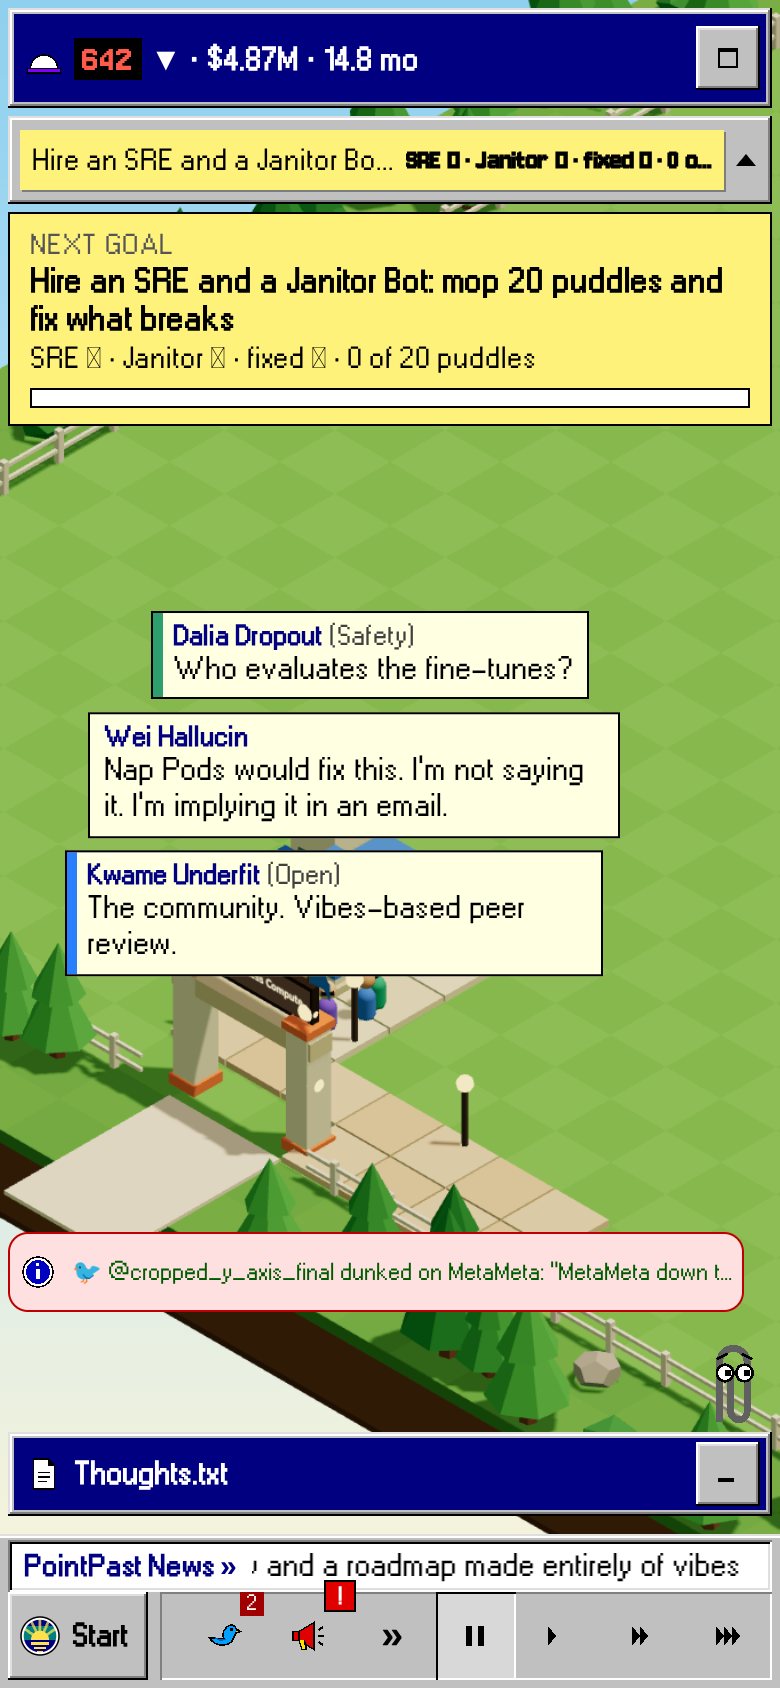
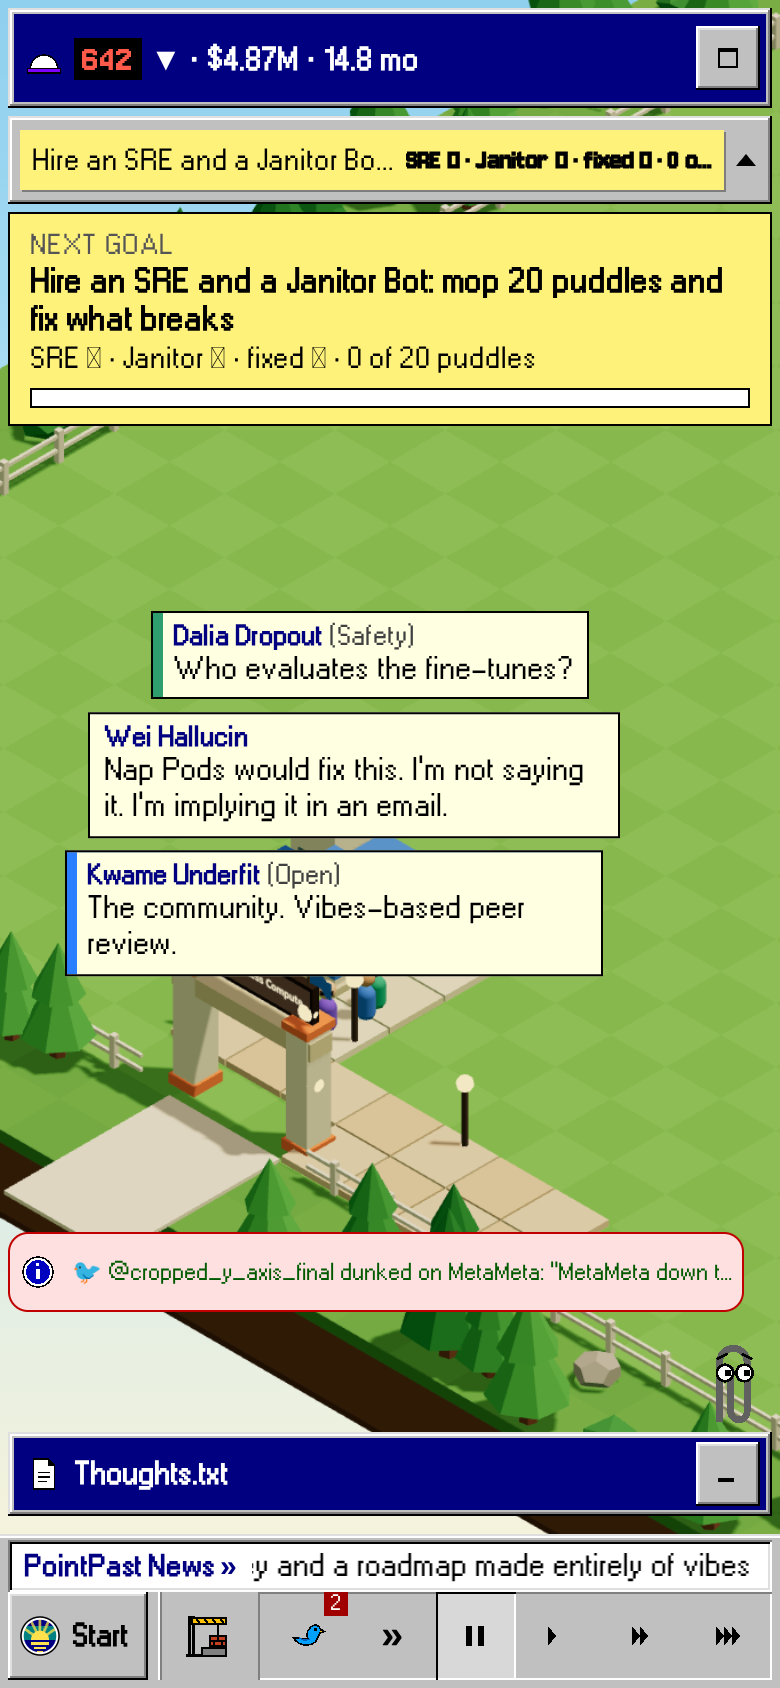
FLT-93: our own paperclip (Jem): brass wire, round black glasses, a sunrise ID on a lanyard, a clipboard; one shared Clip; card + paperclip shots

Changed region(s): [[0.2154, 0.9242, 0.9538, 1.0], [0.4615, 0.5853, 0.4923, 0.6161], [0.4, 0.5853, 0.4308, 0.6161]]

diff --git a/src/skins/frontier-95/messages.tsx b/src/skins/frontier-95/messages.tsx
@@ -257,14 +257,7 @@ export function Assistant({ vm, actions }: SlotPropsMap["Assistant"]) {
         title={t("assistant.title")}
         onClick={() => (tip === null ? setTip(tip ?? 0) : closeTip())}
       >
-        <svg viewBox="0 0 29 32" shapeRendering="crispEdges" aria-hidden>
-          <path d="M10 30V8a5 5 0 0 1 10 0v18a3 3 0 0 1-6 0V10" fill="none" stroke="#606060" strokeWidth="2.5" />
-          <circle cx="12" cy="12" r="3" fill="#fff" stroke="#000" />
-          <circle cx="19" cy="12" r="3" fill="#fff" stroke="#000" />
-          <rect x="12" y="11" width="2" height="2" fill="#000" />
-          <rect x="19" y="11" width="2" height="2" fill="#000" />
-          <path d="M9 7l4-2M22 7l-4-2" stroke="#000" />
-        </svg>
+        <Clip />
       </button>
     </div>
   );
@@ -305,16 +298,42 @@ export function Confirm({ confirm, actions }: SlotPropsMap["Confirm"]) {
   );
 }
 
-/** The paperclip's Paperclip SVG, shared by the assistant and the coach. */
+/**
+ * The assistant and the coach (FLT-93): our own paperclip, a parody nod and no one's art. Brass wire, the cardboard scientist's
+ * round black glasses, a Frontier sunrise ID on a lanyard, and an arm holding a clipboard. Pixels on a 29×32 grid so it stays
+ * crisp at 1:1 and at the 2× it is shown at.
+ */
+const WIRE = "M6.5 30V9.5a5 5 0 0 1 10 0v13a3 3 0 0 1-6 0V14";
+const LENS = (x: number) => `M${x} 9h3v1h1v3h-1v1h-3v-1h-1v-3h1z`;
 function Clip() {
   return (
     <svg viewBox="0 0 29 32" shapeRendering="crispEdges" aria-hidden>
-      <path d="M10 30V8a5 5 0 0 1 10 0v18a3 3 0 0 1-6 0V10" fill="none" stroke="#606060" strokeWidth="2.5" />
-      <circle cx="12" cy="12" r="3" fill="#fff" stroke="#000" />
-      <circle cx="19" cy="12" r="3" fill="#fff" stroke="#000" />
-      <rect x="12" y="11" width="2" height="2" fill="#000" />
-      <rect x="19" y="11" width="2" height="2" fill="#000" />
-      <path d="M9 7l4-2M22 7l-4-2" stroke="#000" />
+      <path d={WIRE} fill="none" stroke="#7a4e0a" strokeWidth="3" />
+      <path d={WIRE} fill="none" stroke="#f0c048" strokeWidth="1" />
+      <rect x="16" y="17" width="5" height="3" fill="#7a4e0a" />
+      <rect x="16" y="18" width="5" height="1" fill="#f0c048" />
+      <rect x="7" y="11" width="9" height="1" fill="#000" />
+      <path d={LENS(6)} fill="#000" />
+      <path d={LENS(14)} fill="#000" />
+      <rect x="6" y="10" width="3" height="3" fill="#fff" />
+      <rect x="14" y="10" width="3" height="3" fill="#fff" />
+      <rect x="7" y="11" width="1" height="1" fill="#000" />
+      <rect x="15" y="11" width="1" height="1" fill="#000" />
+      <path d="M6.5 15.5L9.5 20.5M16.5 15.5L13.5 20.5" stroke="#000080" strokeWidth="1" fill="none" />
+      <rect x="8" y="20" width="7" height="8" fill="#000" />
+      <rect x="9" y="21" width="5" height="6" fill="#fff" />
+      <rect x="9" y="21" width="5" height="1" fill="#000080" />
+      <rect x="10" y="23" width="3" height="1" fill="#ff9a1f" />
+      <rect x="9" y="24" width="5" height="1" fill="#ff9a1f" />
+      <rect x="9" y="25" width="5" height="2" fill="#000080" />
+      <rect x="10" y="25" width="3" height="1" fill="#ffe14d" />
+      <rect x="20" y="13" width="8" height="12" fill="#000" />
+      <rect x="21" y="14" width="6" height="10" fill="#a06a30" />
+      <rect x="22" y="16" width="4" height="7" fill="#fff" />
+      <rect x="22" y="18" width="4" height="1" fill="#000080" />
+      <rect x="22" y="20" width="3" height="1" fill="#000080" />
+      <rect x="22" y="12" width="4" height="3" fill="#7a4e0a" />
+      <rect x="23" y="13" width="2" height="1" fill="#f0c048" />
     </svg>
   );
 }

diff --git a/docs/img/flt-93/report.md b/docs/img/flt-93/report.md
@@ -1,9 +1,9 @@
 
-| Scene | Before (`main` @ d17e9a7) | After (`flt-93-onboarding` @ c59477c) |
+| Scene | Before (`main` @ c5bc38c) | After (`flt-93-onboarding` @ f02785a+) |
 |---|---|---|
-| **flt93-card**<br>8.6% px differ | ![flt93-card](https://github.com/jem-computer/frontier-lab-tycoon/blob/flt-93-onboarding/docs/img/flt-93/before/flt93-card.png?raw=true) | ![flt93-card](https://github.com/jem-computer/frontier-lab-tycoon/blob/flt-93-onboarding/docs/img/flt-93/after/flt93-card.png?raw=true) |
-| **flt93-card-phone**<br>39.5% px differ | ![flt93-card-phone](https://github.com/jem-computer/frontier-lab-tycoon/blob/flt-93-onboarding/docs/img/flt-93/before/flt93-card-phone.png?raw=true) | ![flt93-card-phone](https://github.com/jem-computer/frontier-lab-tycoon/blob/flt-93-onboarding/docs/img/flt-93/after/flt93-card-phone.png?raw=true) |
-| **flt93-hire**<br>14.5% px differ | ![flt93-hire](https://github.com/jem-computer/frontier-lab-tycoon/blob/flt-93-onboarding/docs/img/flt-93/before/flt93-hire.png?raw=true) | ![flt93-hire](https://github.com/jem-computer/frontier-lab-tycoon/blob/flt-93-onboarding/docs/img/flt-93/after/flt93-hire.png?raw=true) |
-| **flt93-hire-phone**<br>37.2% px differ | ![flt93-hire-phone](https://github.com/jem-computer/frontier-lab-tycoon/blob/flt-93-onboarding/docs/img/flt-93/before/flt93-hire-phone.png?raw=true) | ![flt93-hire-phone](https://github.com/jem-computer/frontier-lab-tycoon/blob/flt-93-onboarding/docs/img/flt-93/after/flt93-hire-phone.png?raw=true) |
+| **flt93-card**<br>10.9% px differ | ![flt93-card](https://github.com/jem-computer/frontier-lab-tycoon/blob/flt-93-onboarding/docs/img/flt-93/before/flt93-card.png?raw=true) | ![flt93-card](https://github.com/jem-computer/frontier-lab-tycoon/blob/flt-93-onboarding/docs/img/flt-93/after/flt93-card.png?raw=true) |
+| **flt93-card-phone**<br>39.4% px differ | ![flt93-card-phone](https://github.com/jem-computer/frontier-lab-tycoon/blob/flt-93-onboarding/docs/img/flt-93/before/flt93-card-phone.png?raw=true) | ![flt93-card-phone](https://github.com/jem-computer/frontier-lab-tycoon/blob/flt-93-onboarding/docs/img/flt-93/after/flt93-card-phone.png?raw=true) |
+| **flt93-hire**<br>14.2% px differ | ![flt93-hire](https://github.com/jem-computer/frontier-lab-tycoon/blob/flt-93-onboarding/docs/img/flt-93/before/flt93-hire.png?raw=true) | ![flt93-hire](https://github.com/jem-computer/frontier-lab-tycoon/blob/flt-93-onboarding/docs/img/flt-93/after/flt93-hire.png?raw=true) |
+| **flt93-hire-phone**<br>37.1% px differ | ![flt93-hire-phone](https://github.com/jem-computer/frontier-lab-tycoon/blob/flt-93-onboarding/docs/img/flt-93/before/flt93-hire-phone.png?raw=true) | ![flt93-hire-phone](https://github.com/jem-computer/frontier-lab-tycoon/blob/flt-93-onboarding/docs/img/flt-93/after/flt93-hire-phone.png?raw=true) |
 
-_pnpm shots: 4 scene(s) in 107.7s (8/8 captures ok)._
+_pnpm shots: 4 scene(s) in 106.2s (8/8 captures ok)._
